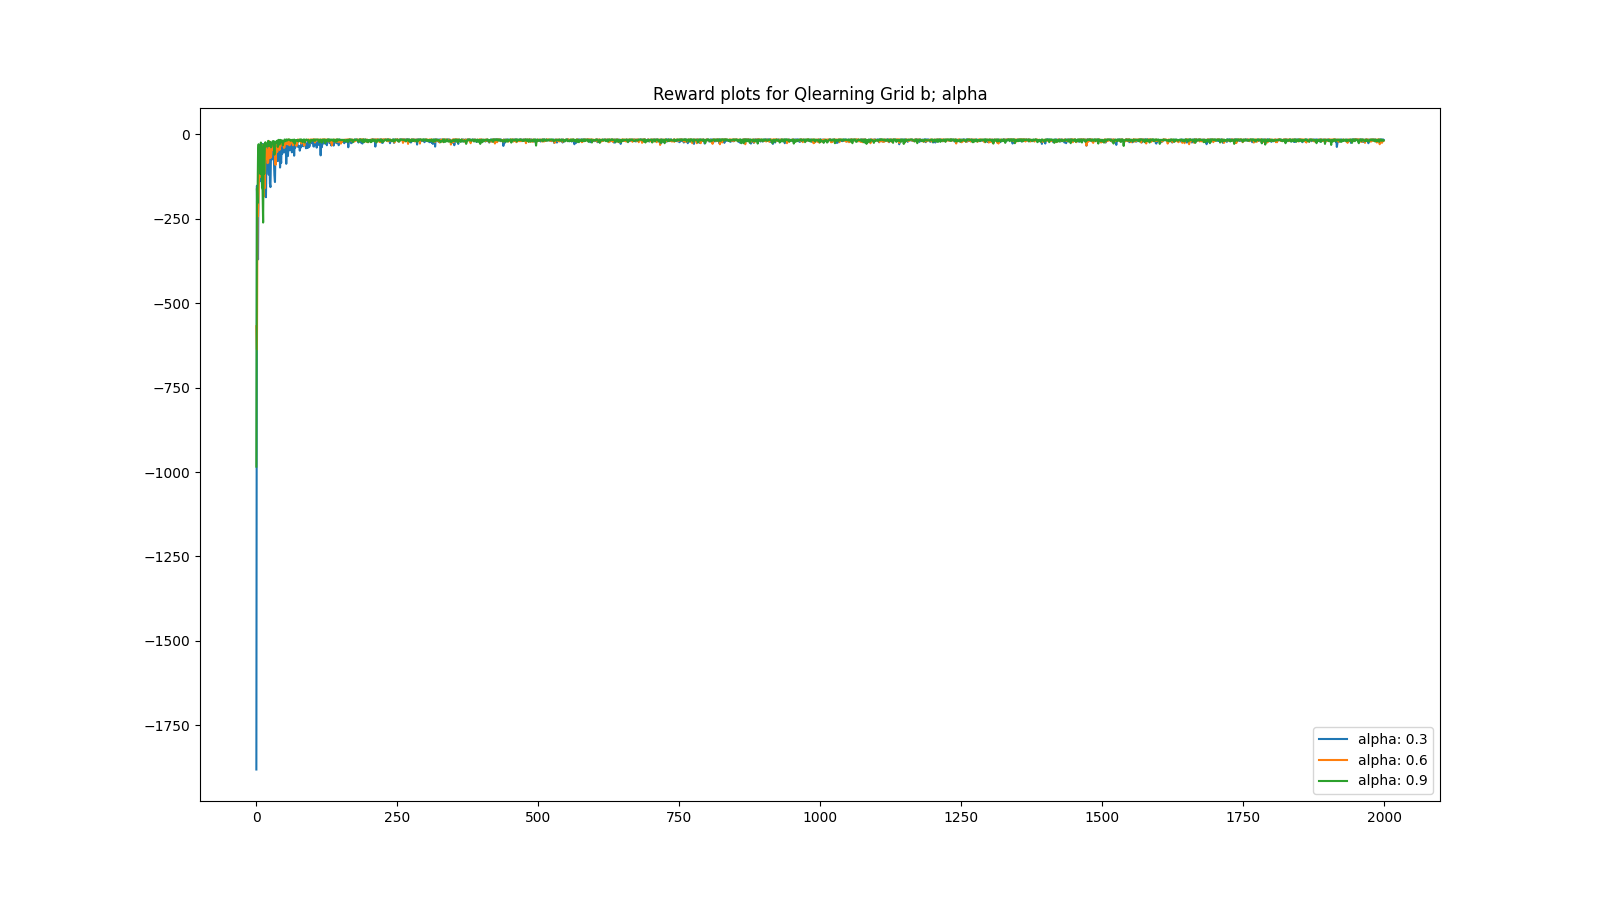
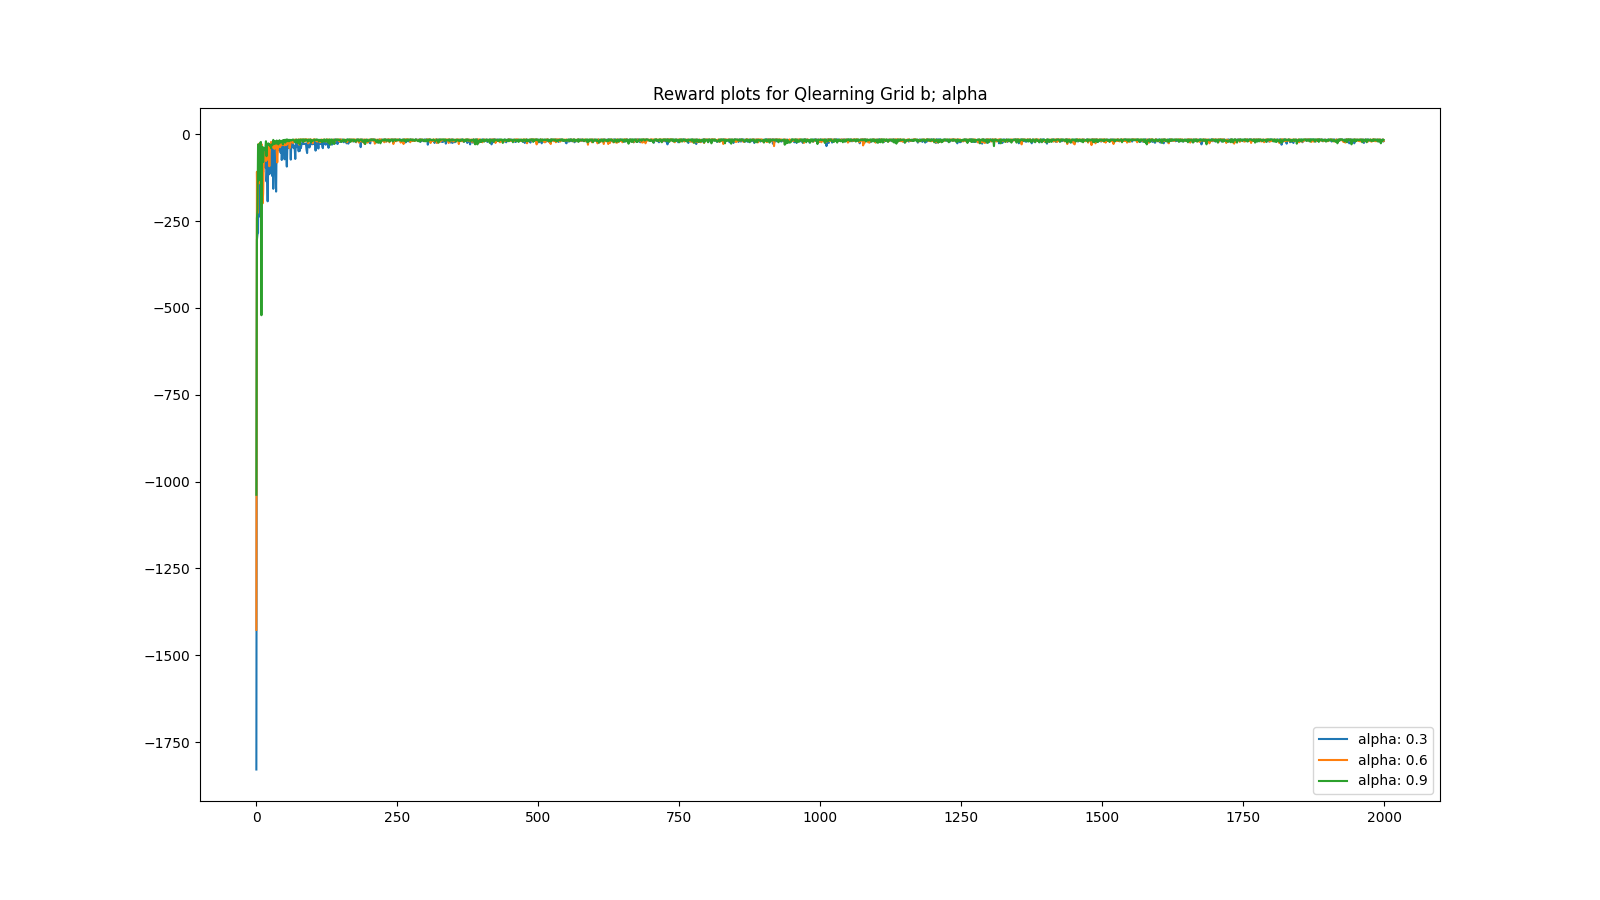
Ez mid

diff --git a/game.py b/game.py
@@ -11,7 +11,7 @@ from agents import QLearningAgent, SarsaAgent, DoubleQLearningAgent
 from envs import GridA, GridB
 
 # Constants
-GRID_WORLD = "grid_a"  # 'grid_a' / 'grid_b'
+GRID_WORLD = "grid_b"  # 'grid_a' / 'grid_b'
 AGENT = "qlearning"  # 'qlearning' / 'sarsa' / 'double_qlearning'
 
 EPSILON = 0.1
@@ -25,8 +25,8 @@ START_STATES = None  # to be completed
 ACTIONS_NO = 4
 STATES_NO = 70  # 7 * 10 grid
 
-NO_EPISODES = 10000
-MULTIAGENT = True
+NO_EPISODES = 2000
+MULTIAGENT = False
 
 
 def get_agent(epsilon, alpha, actions_no=ACTIONS_NO):
@@ -55,12 +55,10 @@ def get_env(start_state):
         if GRID_WORLD == "grid_a":
             return GridA(1, [start_state])
         elif GRID_WORLD == "grid_b":
-            return GridB(start_state)
+            return GridB(1, [start_state])
     else:
         if GRID_WORLD == "grid_a":
             return GridA(3, [(0, 2), (3, 0), (6, 2)])
-        elif GRID_WORLD == "grid_b":
-            return GridB(start_state)
 
 
 def print_q(q):
@@ -123,9 +121,21 @@ def log_results(results, key_name, task_id):
         json.dump(logged_results, f, indent=6)
 
 
+def get_policy(agent):
+    if hasattr(agent, "q"):
+        pi = np.argmax(agent.q, axis=1)
+    else:
+        pi = np.argmax(agent.q1 + agent.q2, axis=1)
+
+    return pi
+
+
 def main_single_agent_run(agent, env):
     total_rewards = []
     total_steps = []
+
+    old_pi = np.zeros(STATES_NO)
+    converged_episode = -1
 
     for episode in range(NO_EPISODES):
         print("EPISODE", episode)
@@ -150,7 +160,12 @@ def main_single_agent_run(agent, env):
         total_rewards.append(total_reward)
         total_steps.append(steps)
 
-    return total_rewards, total_steps
+        pi = get_policy(agent)
+        if all(pi == old_pi) and converged_episode == -1:
+            converged_episode = episode
+        old_pi = pi
+
+    return total_rewards, total_steps, converged_episode
 
 
 def main_multi_agent_run(agents, env):
@@ -192,16 +207,20 @@ def main_multi_agent_run(agents, env):
 
 
 def task1():
+    if MULTIAGENT:
+        raise ValueError("ERROR!!!")
+
     results = {}
     for epsilon in EPSILON_VALUES:
         agent = get_agent(epsilon, ALPHA)
         env = get_env(START_STATE)
-        total_rewards, total_steps = main_single_agent_run(agent, env)
+        total_rewards, total_steps, converged_episode = main_single_agent_run(agent, env)
 
         results[epsilon] = {
             "rewards": total_rewards,
             "steps": total_steps,
             "avg_steps": np.mean(total_steps),
+            "conv_episode": converged_episode,
         }
 
     log_results(results, "epsilon", "task1")
@@ -210,12 +229,13 @@ def task1():
     for alpha in ALPHA_VALUES:
         agent = get_agent(EPSILON, alpha)
         env = get_env(START_STATE)
-        total_rewards, total_steps = main_single_agent_run(agent, env)
+        total_rewards, total_steps, converged_episode = main_single_agent_run(agent, env)
 
         results[alpha] = {
             "rewards": total_rewards,
             "steps": total_steps,
             "avg_steps": np.mean(total_steps),
+            "conv_episode": converged_episode,
         }
 
     log_results(results, "alpha", "task1")
@@ -224,23 +244,27 @@ def task1():
     for start_state in START_STATE_VALUES:
         agent = get_agent(EPSILON, ALPHA)
         env = get_env(start_state)
-        total_rewards, total_steps = main_single_agent_run(agent, env)
+        total_rewards, total_steps, converged_episode = main_single_agent_run(agent, env)
 
         results[str(start_state)] = {
             "rewards": total_rewards,
             "steps": total_steps,
             "avg_steps": np.mean(total_steps),
+            "conv_episode": converged_episode,
         }
 
     log_results(results, "start_state", "task1")
 
 
 def task2():
+    if MULTIAGENT:
+        raise ValueError("ERROR!!!")
+
     results = {}
     for actions_no in [4, 8]:
         agent = get_agent(EPSILON, 0.3, actions_no)
         env = get_env(START_STATE)
-        total_rewards, total_steps = main_single_agent_run(agent, env)
+        total_rewards, total_steps, _ = main_single_agent_run(agent, env)
 
         results[actions_no] = {
             "rewards": total_rewards,
@@ -252,6 +276,9 @@ def task2():
 
 
 def task3():
+    if not MULTIAGENT:
+        raise ValueError("ERROR!!!")
+
     agent1 = get_agent(0.3, ALPHA)
     agent2 = get_agent(0.3, ALPHA)
     agent3 = get_agent(0.3, ALPHA)
@@ -264,6 +291,6 @@ def task3():
 
 
 if __name__ == "__main__":
-    # task1()
+    task1()
     # task2()
-    task3()
+    # task3()

diff --git a/envs.py b/envs.py
@@ -163,12 +163,15 @@ class GridA(BaseEnv):
 
 
 class GridB(BaseEnv):
-    def __init__(self, start_state):
-        super().__init__(start_state)
+    def __init__(self, num_agents, start_states):
+        super().__init__(num_agents, start_states)
         self.wind_power = [0, 0, 0, 1, 1, 1, 2, 2, 1, 0]
 
     def step(self, action):
-        new_y, new_x = ACTION.apply_action(self.act_state, action)
+        if self.num_agents != 1:
+            raise ValueError("Grid B works only for single agent!")
+
+        new_y, new_x = ACTION.apply_action(self.act_states[0], action[0])
 
         valid = True
         if not (0 <= new_y < BaseEnv.HEIGHT):
@@ -178,21 +181,21 @@ class GridB(BaseEnv):
             valid = False
 
         if valid:
-            self.act_state = (new_y, new_x)
+            self.act_states[0] = (new_y, new_x)
 
-        act_y, act_x = self.act_state
+        act_y, act_x = self.act_states[0]
         act_y = max(0, act_y - self.wind_power[act_x])
-        self.act_state = (act_y, act_x)
+        self.act_states[0] = (act_y, act_x)
 
         reward = -1
         done = False
-        if self.board[self.act_state[0], self.act_state[1]] == CELL_TYPE.GOAL.value:
+        if self.board[self.act_states[0][0], self.act_states[0][1]] == CELL_TYPE.GOAL.value:
             reward = 1
             done = True
 
-        return BaseEnv.state_tuple_to_int(self.act_state), reward, done
+        return BaseEnv.state_tuple_to_int(self.act_states[0]), reward, done
 
 
 if __name__ == "__main__":
-    base = BaseEnv((3, 1))
+    base = BaseEnv(1, [(1, 1)])
     base.print_board()
